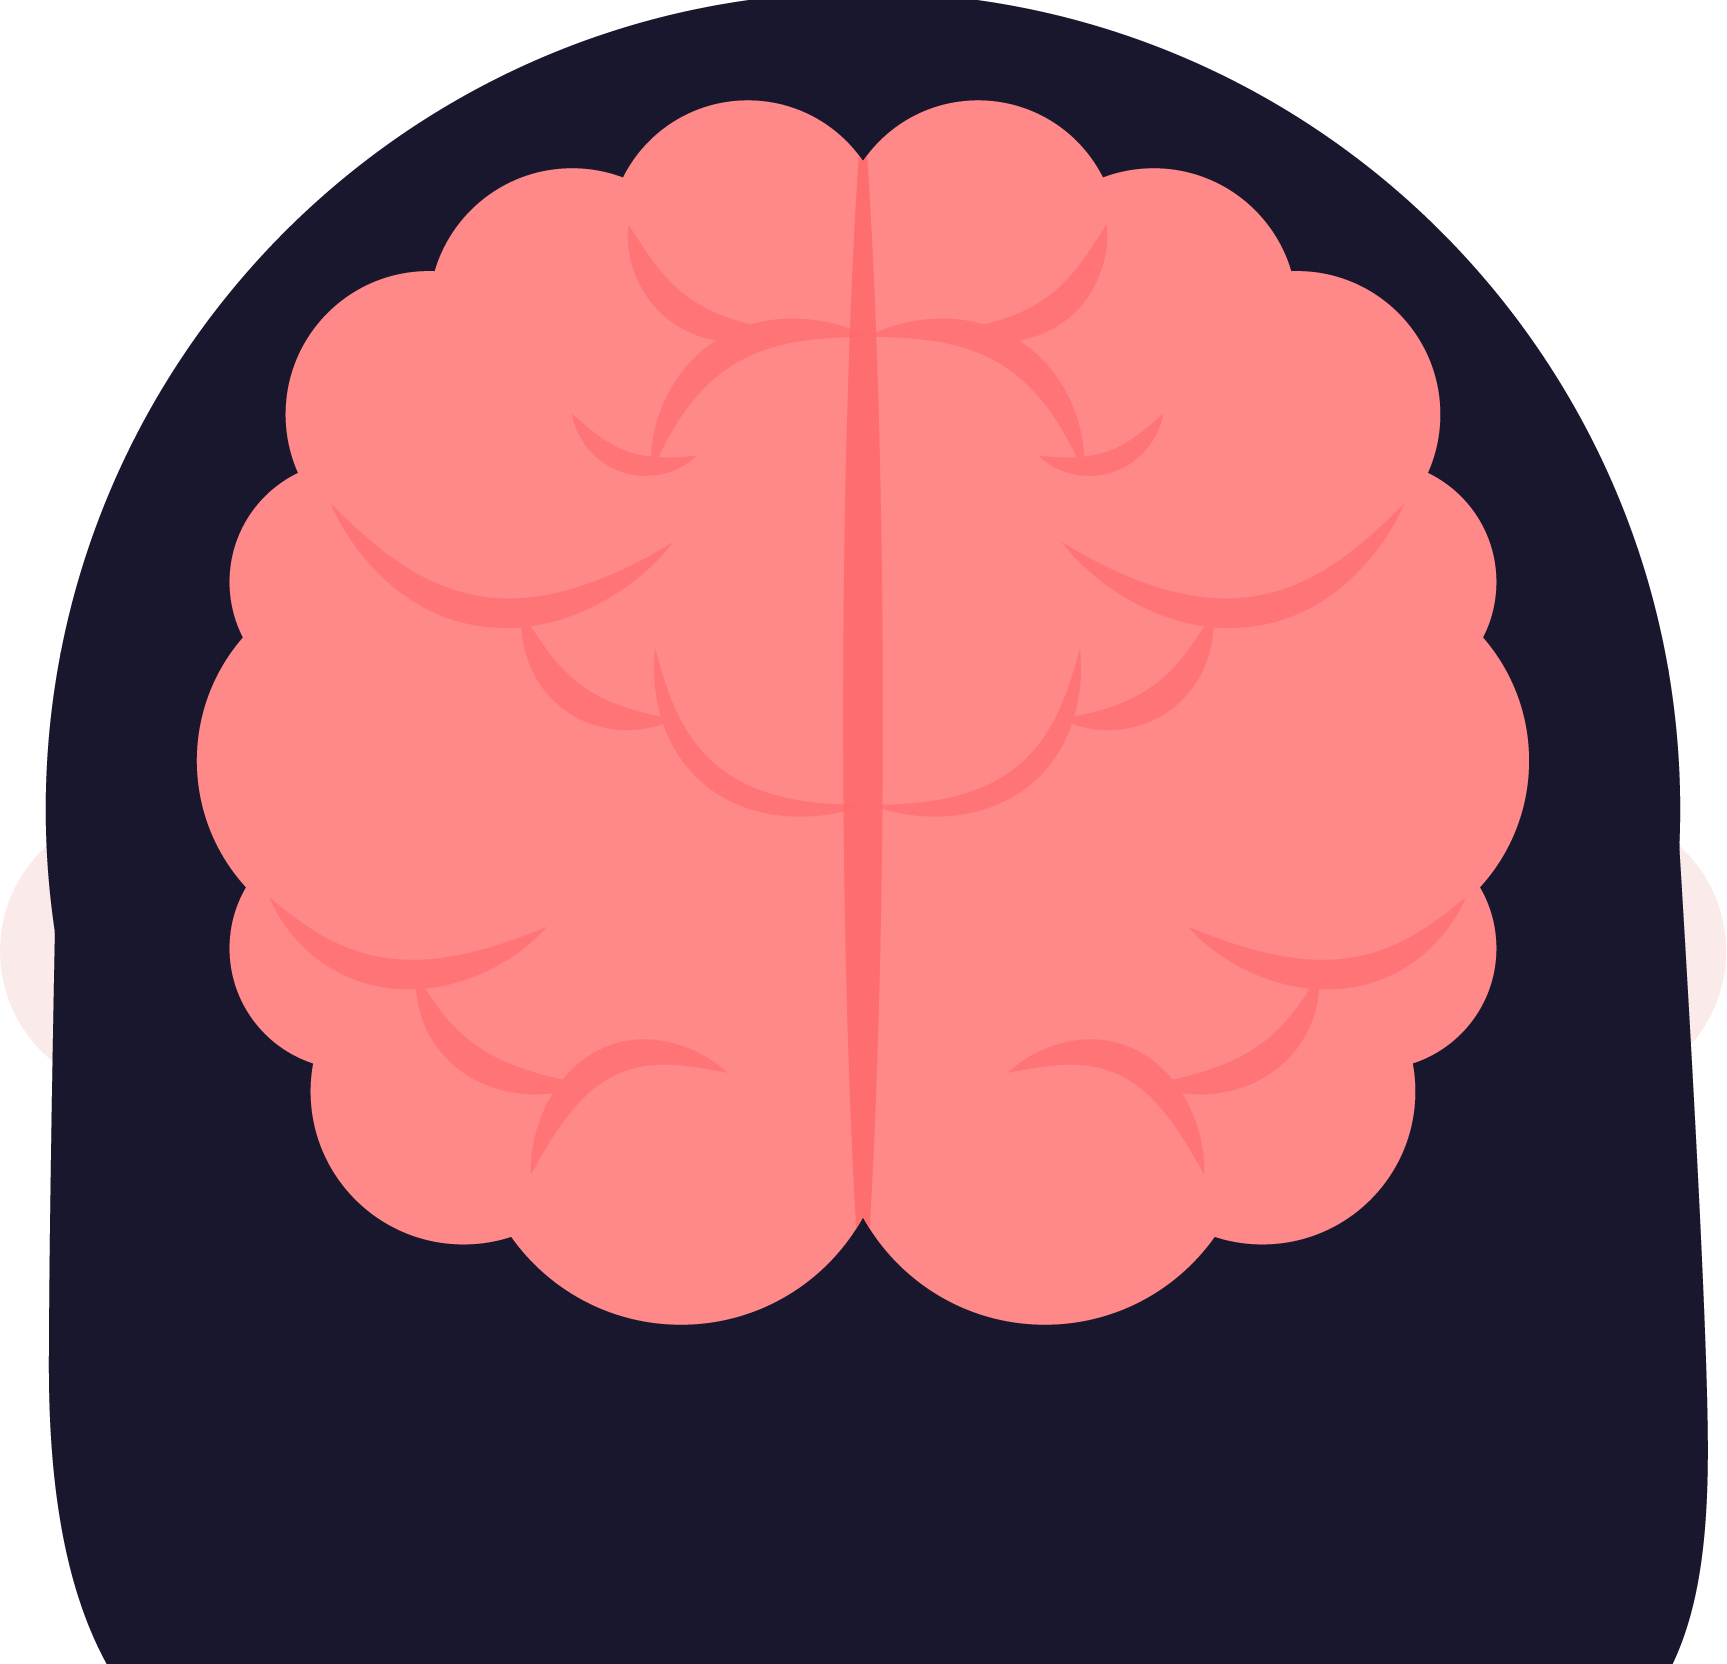
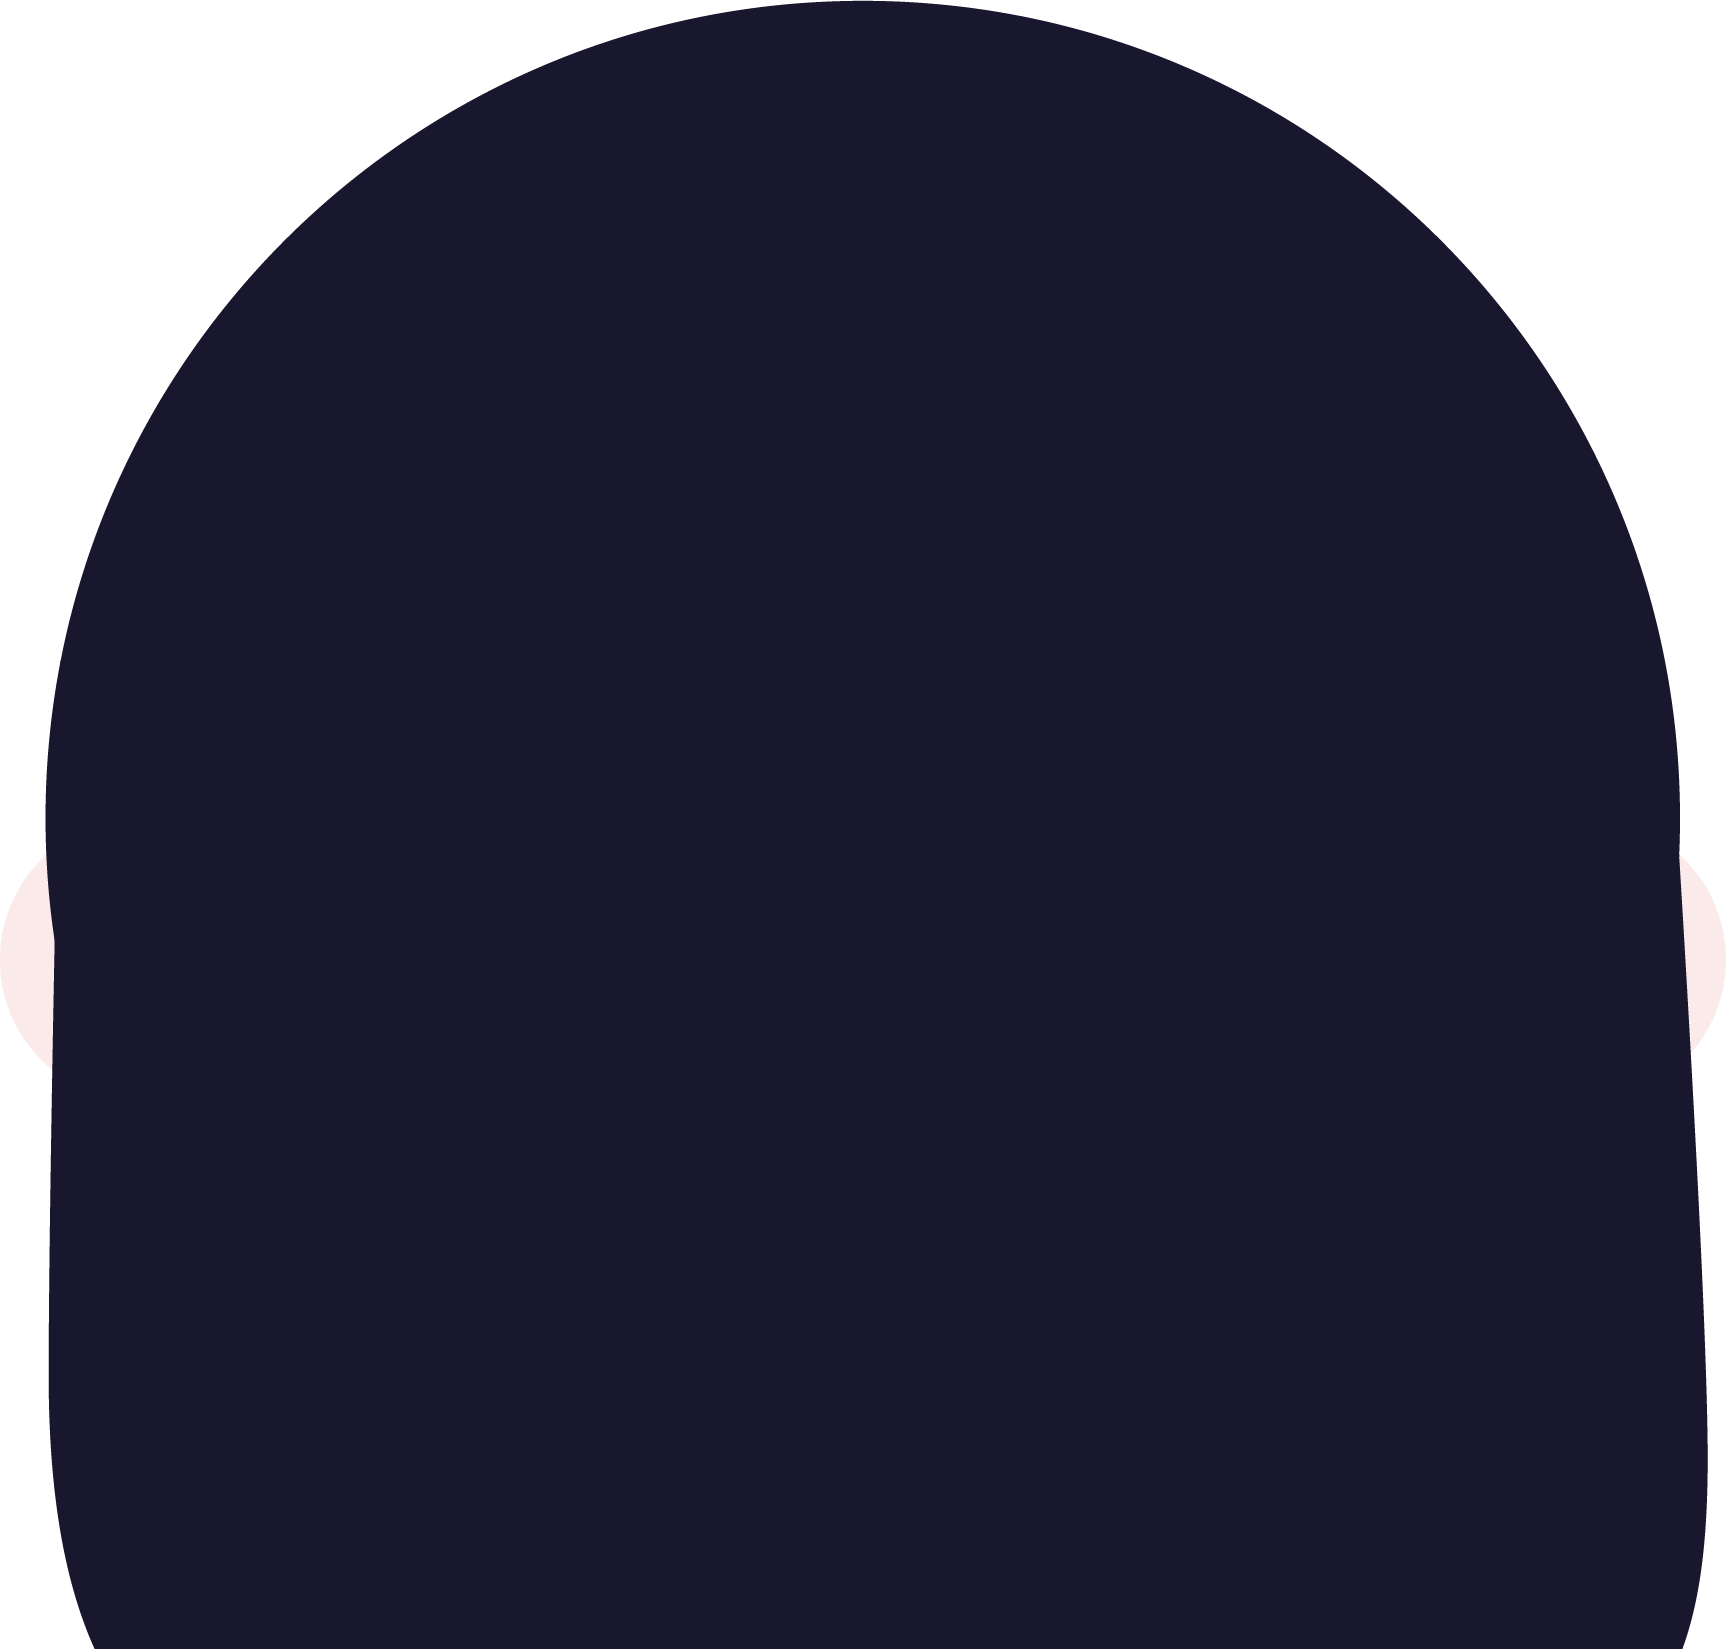
P2: Replaced girl back img and added brain img
-I have to seperate them because I will be adding tint on the brain

diff --git a/projects/project2/index.html b/projects/project2/index.html
@@ -42,7 +42,8 @@
 
   <div id="circle"></div>
   <section class="container"><img src="assets/images/safe-v1.png" id="container-image"></section>
-  <img src="assets/images/girl-back.png" id="brain">
+  <img src="assets/images/brain.png" id="brain">
+  <img src="assets/images/girl-back.png" id="girl-back">
 
   <ul id="video-list">
     <li><img class="video" src="assets/images/placeholder.png"></li>

diff --git a/projects/project2/css/style.css b/projects/project2/css/style.css
@@ -6,7 +6,7 @@ body {
 
 #game-start {
   position: absolute;
-  z-index: 5;
+  z-index: 7;
 }
 
 #ui {
@@ -62,8 +62,16 @@ body {
 
 #brain {
   position: absolute;
-  width: 600px;
-  top: 140px;
+  width: 500px;
+  top: 170px;
+  left: 320px;
+  z-index: 5;
+}
+
+#girl-back {
+  position: absolute;
+  width: 620px;
+  top: 125px;
   left: 260px;
   z-index: 4;
 }
